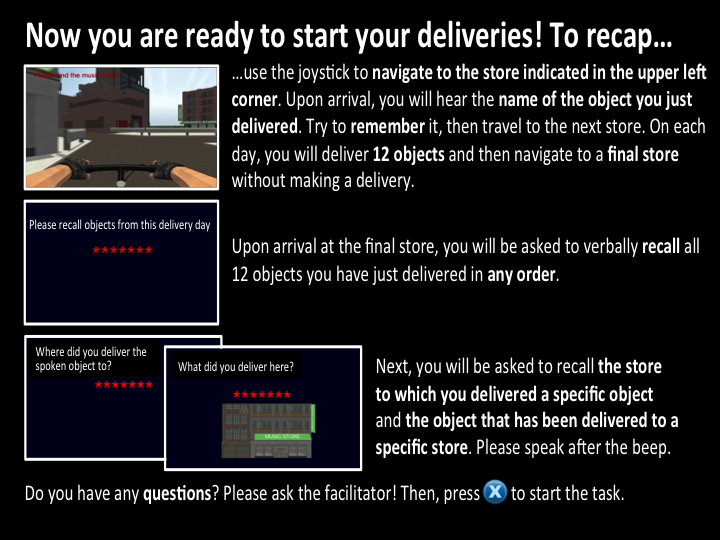
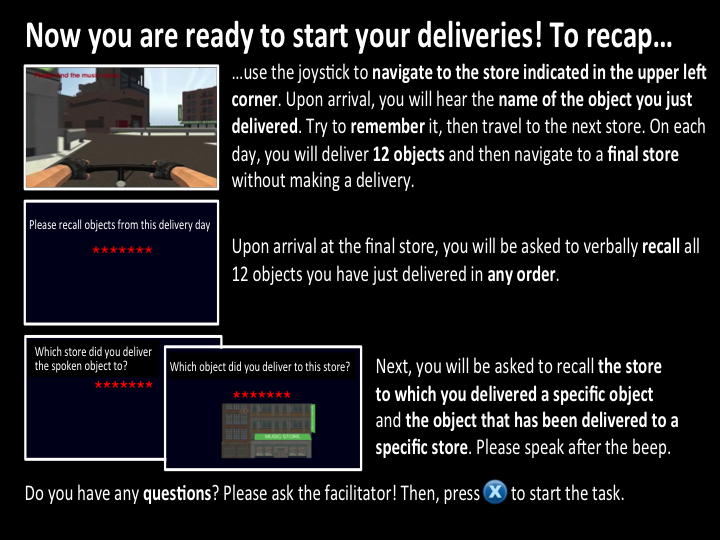
Updated with new instructions for cued recall

Changed region(s): [[0.2444, 0.6519, 0.4889, 0.7111], [0.0306, 0.6222, 0.2139, 0.7111]]

diff --git a/Assets/Scripts/Experiment/TrialController.cs b/Assets/Scripts/Experiment/TrialController.cs
@@ -720,9 +720,9 @@ yield return StartCoroutine(exp.instructionsController.PlayCalibrationInstructio
 
 				exp.eventLogger.LogCuedRecallPresentation(cueName, shouldRecallName, true, false, true);
 #if GERMAN
-				exp.recallInstructionsController.DisplayText("Was haben Sie hierher geliefert?");
+				exp.recallInstructionsController.DisplayText("Zu welchem Geschäft haben Sie diesen Gegenstand geliefert?");
 #else
-				exp.recallInstructionsController.DisplayText ("What did you deliver here?");
+				exp.recallInstructionsController.DisplayText ("Which object did you deliver to this store?");
 #endif
 
 				//show image
@@ -741,9 +741,9 @@ yield return StartCoroutine(exp.instructionsController.PlayCalibrationInstructio
 				exp.eventLogger.LogCuedRecallPresentation(cueName, shouldRecallName, false, true, true);
 
 #if GERMAN
-				exp.recallInstructionsController.DisplayText ("Wohin haben Sie diesen Gegenstand geliefert?");
+				exp.recallInstructionsController.DisplayText ("Welchen Gegenstand haben Sie zu diesem Geschäft geliefert?");
 #else
-				exp.recallInstructionsController.DisplayText ("Where did you deliver the spoken item to?");
+				exp.recallInstructionsController.DisplayText ("Which store did you deliver the spoken object to?");
 #endif
 				//play audio
 				orderedStores[index].PlayCurrentAudio();

diff --git a/Assets/Scripts/Experiment/SceneController.cs b/Assets/Scripts/Experiment/SceneController.cs
@@ -50,7 +50,9 @@ public class SceneController : MonoBehaviour { //there can be a separate scene c
 		#else
 		calibrationInstructions_German.enabled=true;
 		#endif
-        yield return StartCoroutine(UsefulFunctions.WaitForActionButton());
+		while (!Input.GetKeyDown (KeyCode.Tab)) {
+			yield return 0;
+		}
         yield return null;
     }
 

diff --git a/Assets/Scripts/Experiment/Config.cs b/Assets/Scripts/Experiment/Config.cs
@@ -112,7 +112,7 @@ public class Config : MonoBehaviour {
 
 
 	public static bool shouldUseWaypoints = true;
-	public static int maxNumWrongTurns = 3;
+	public static int maxNumWrongTurns = 1;
 
 	//tilt variables
 	public static bool isAvatarTilting = true;
